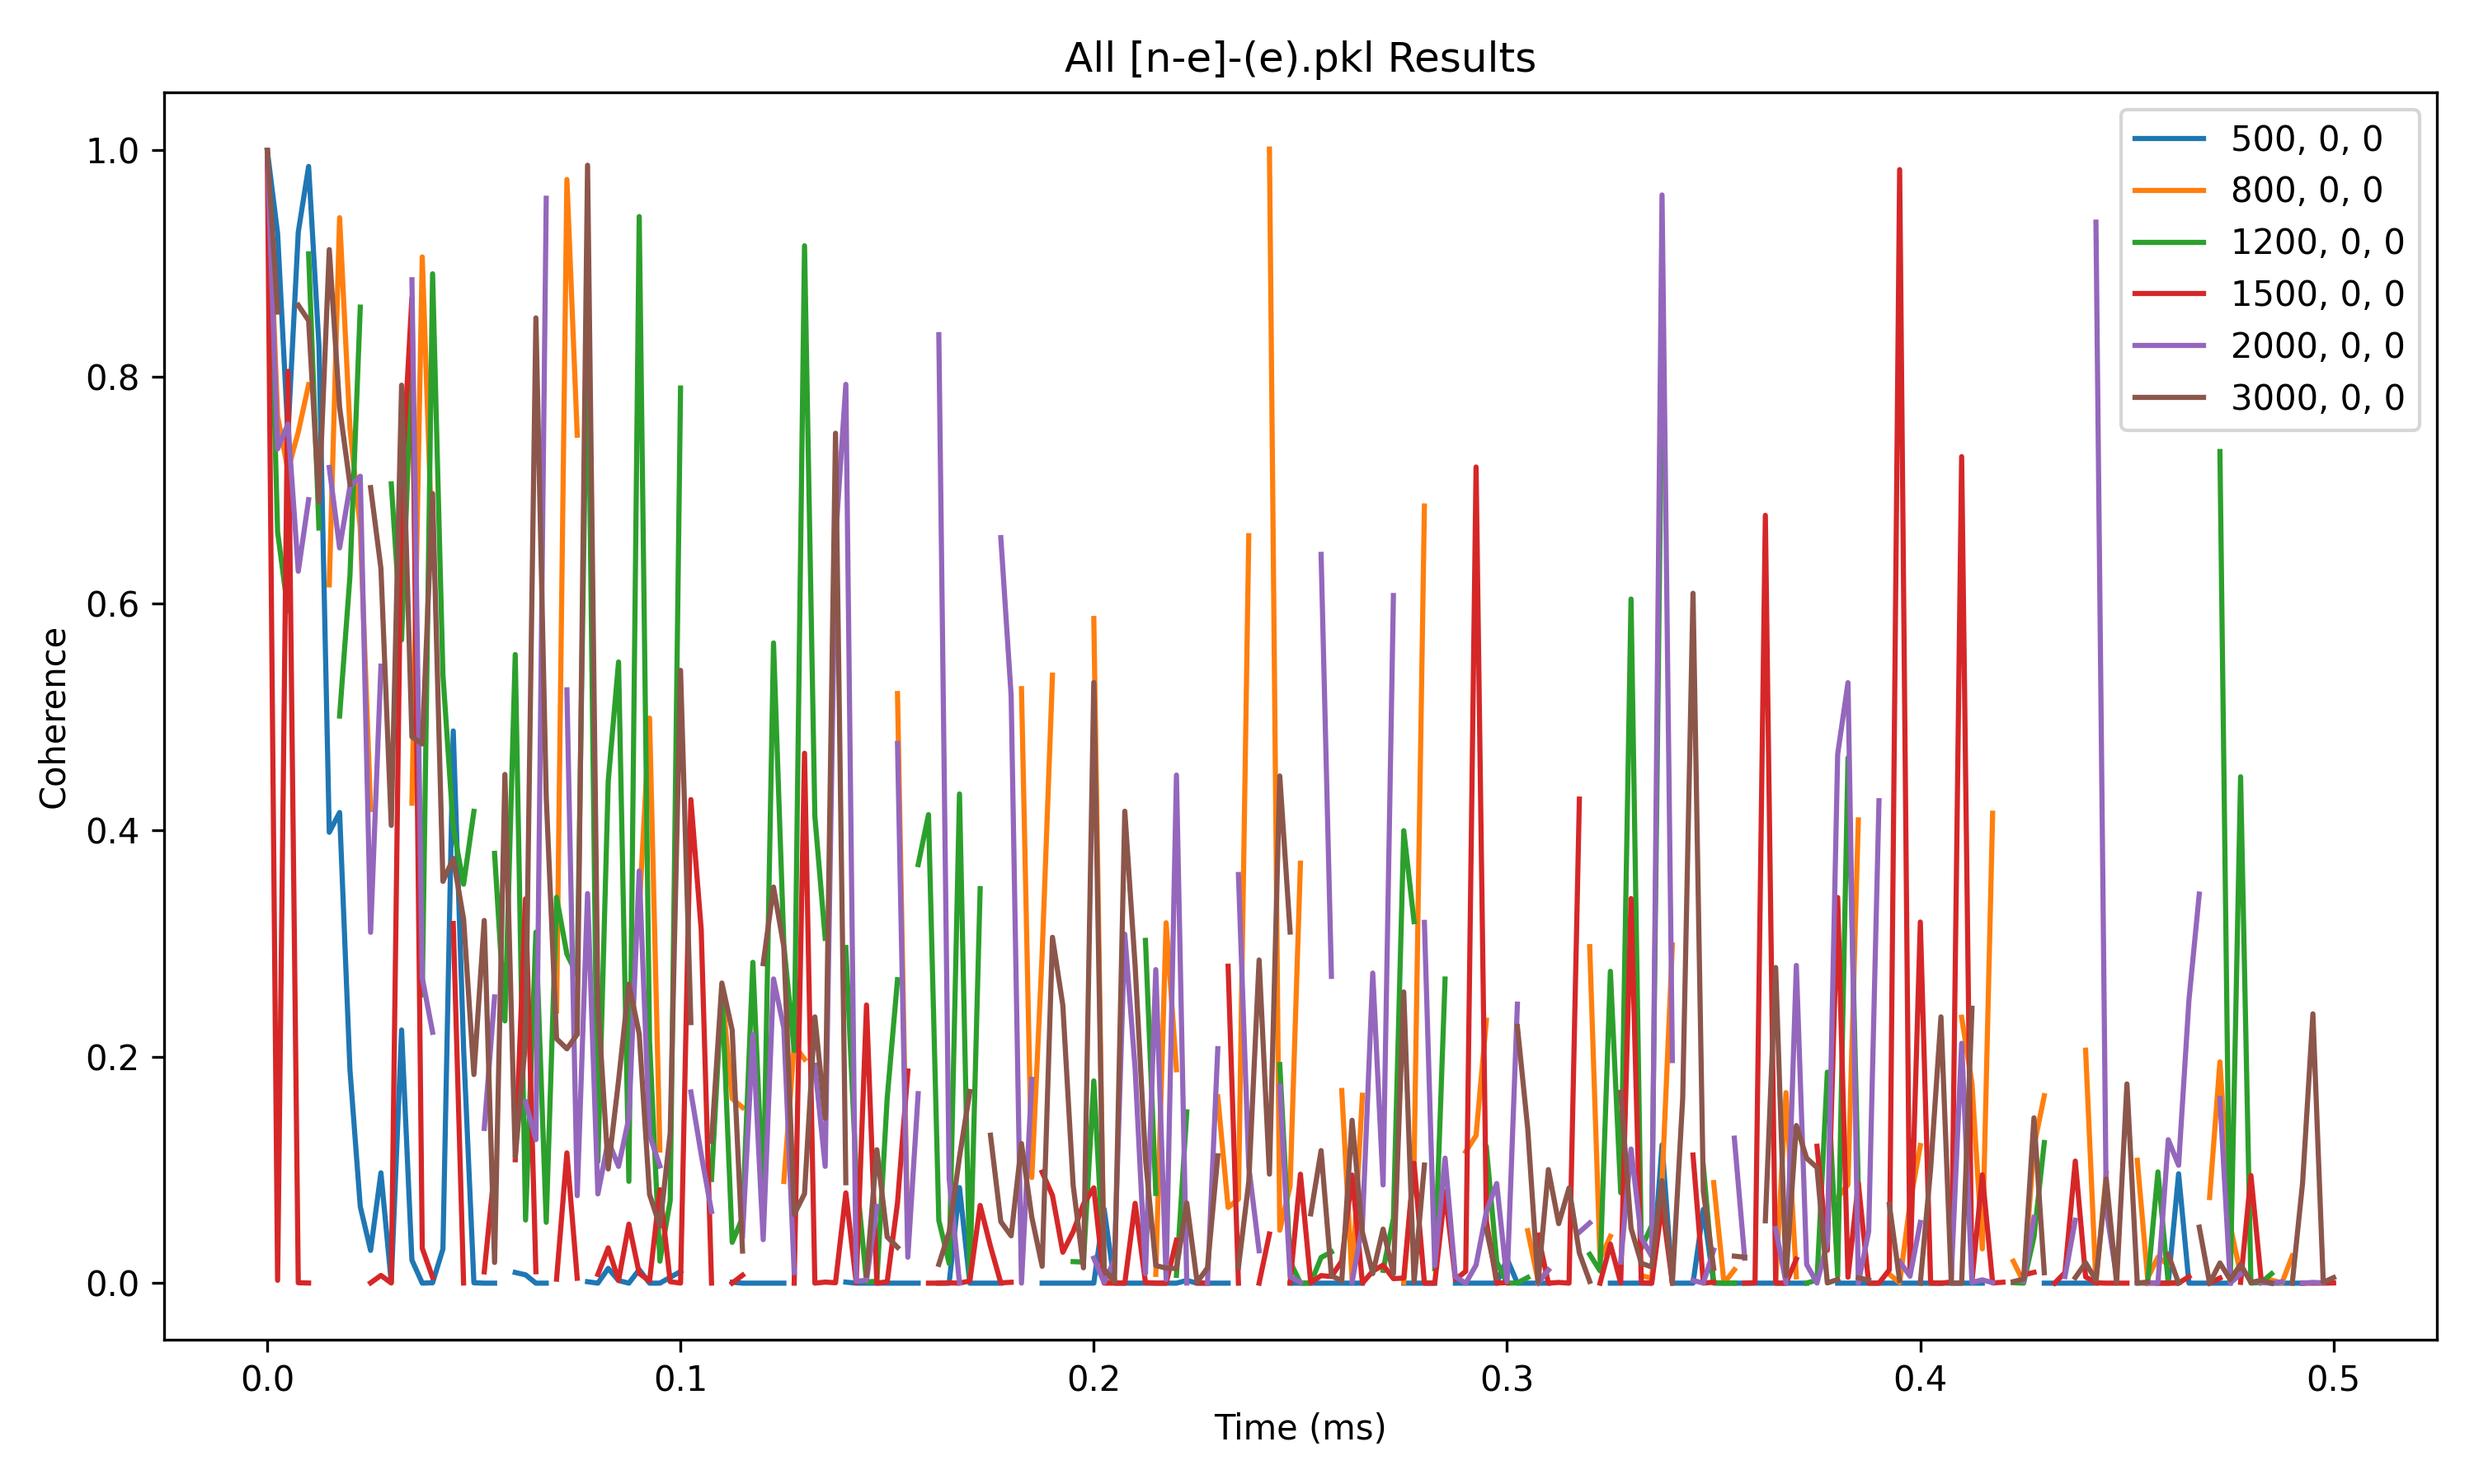
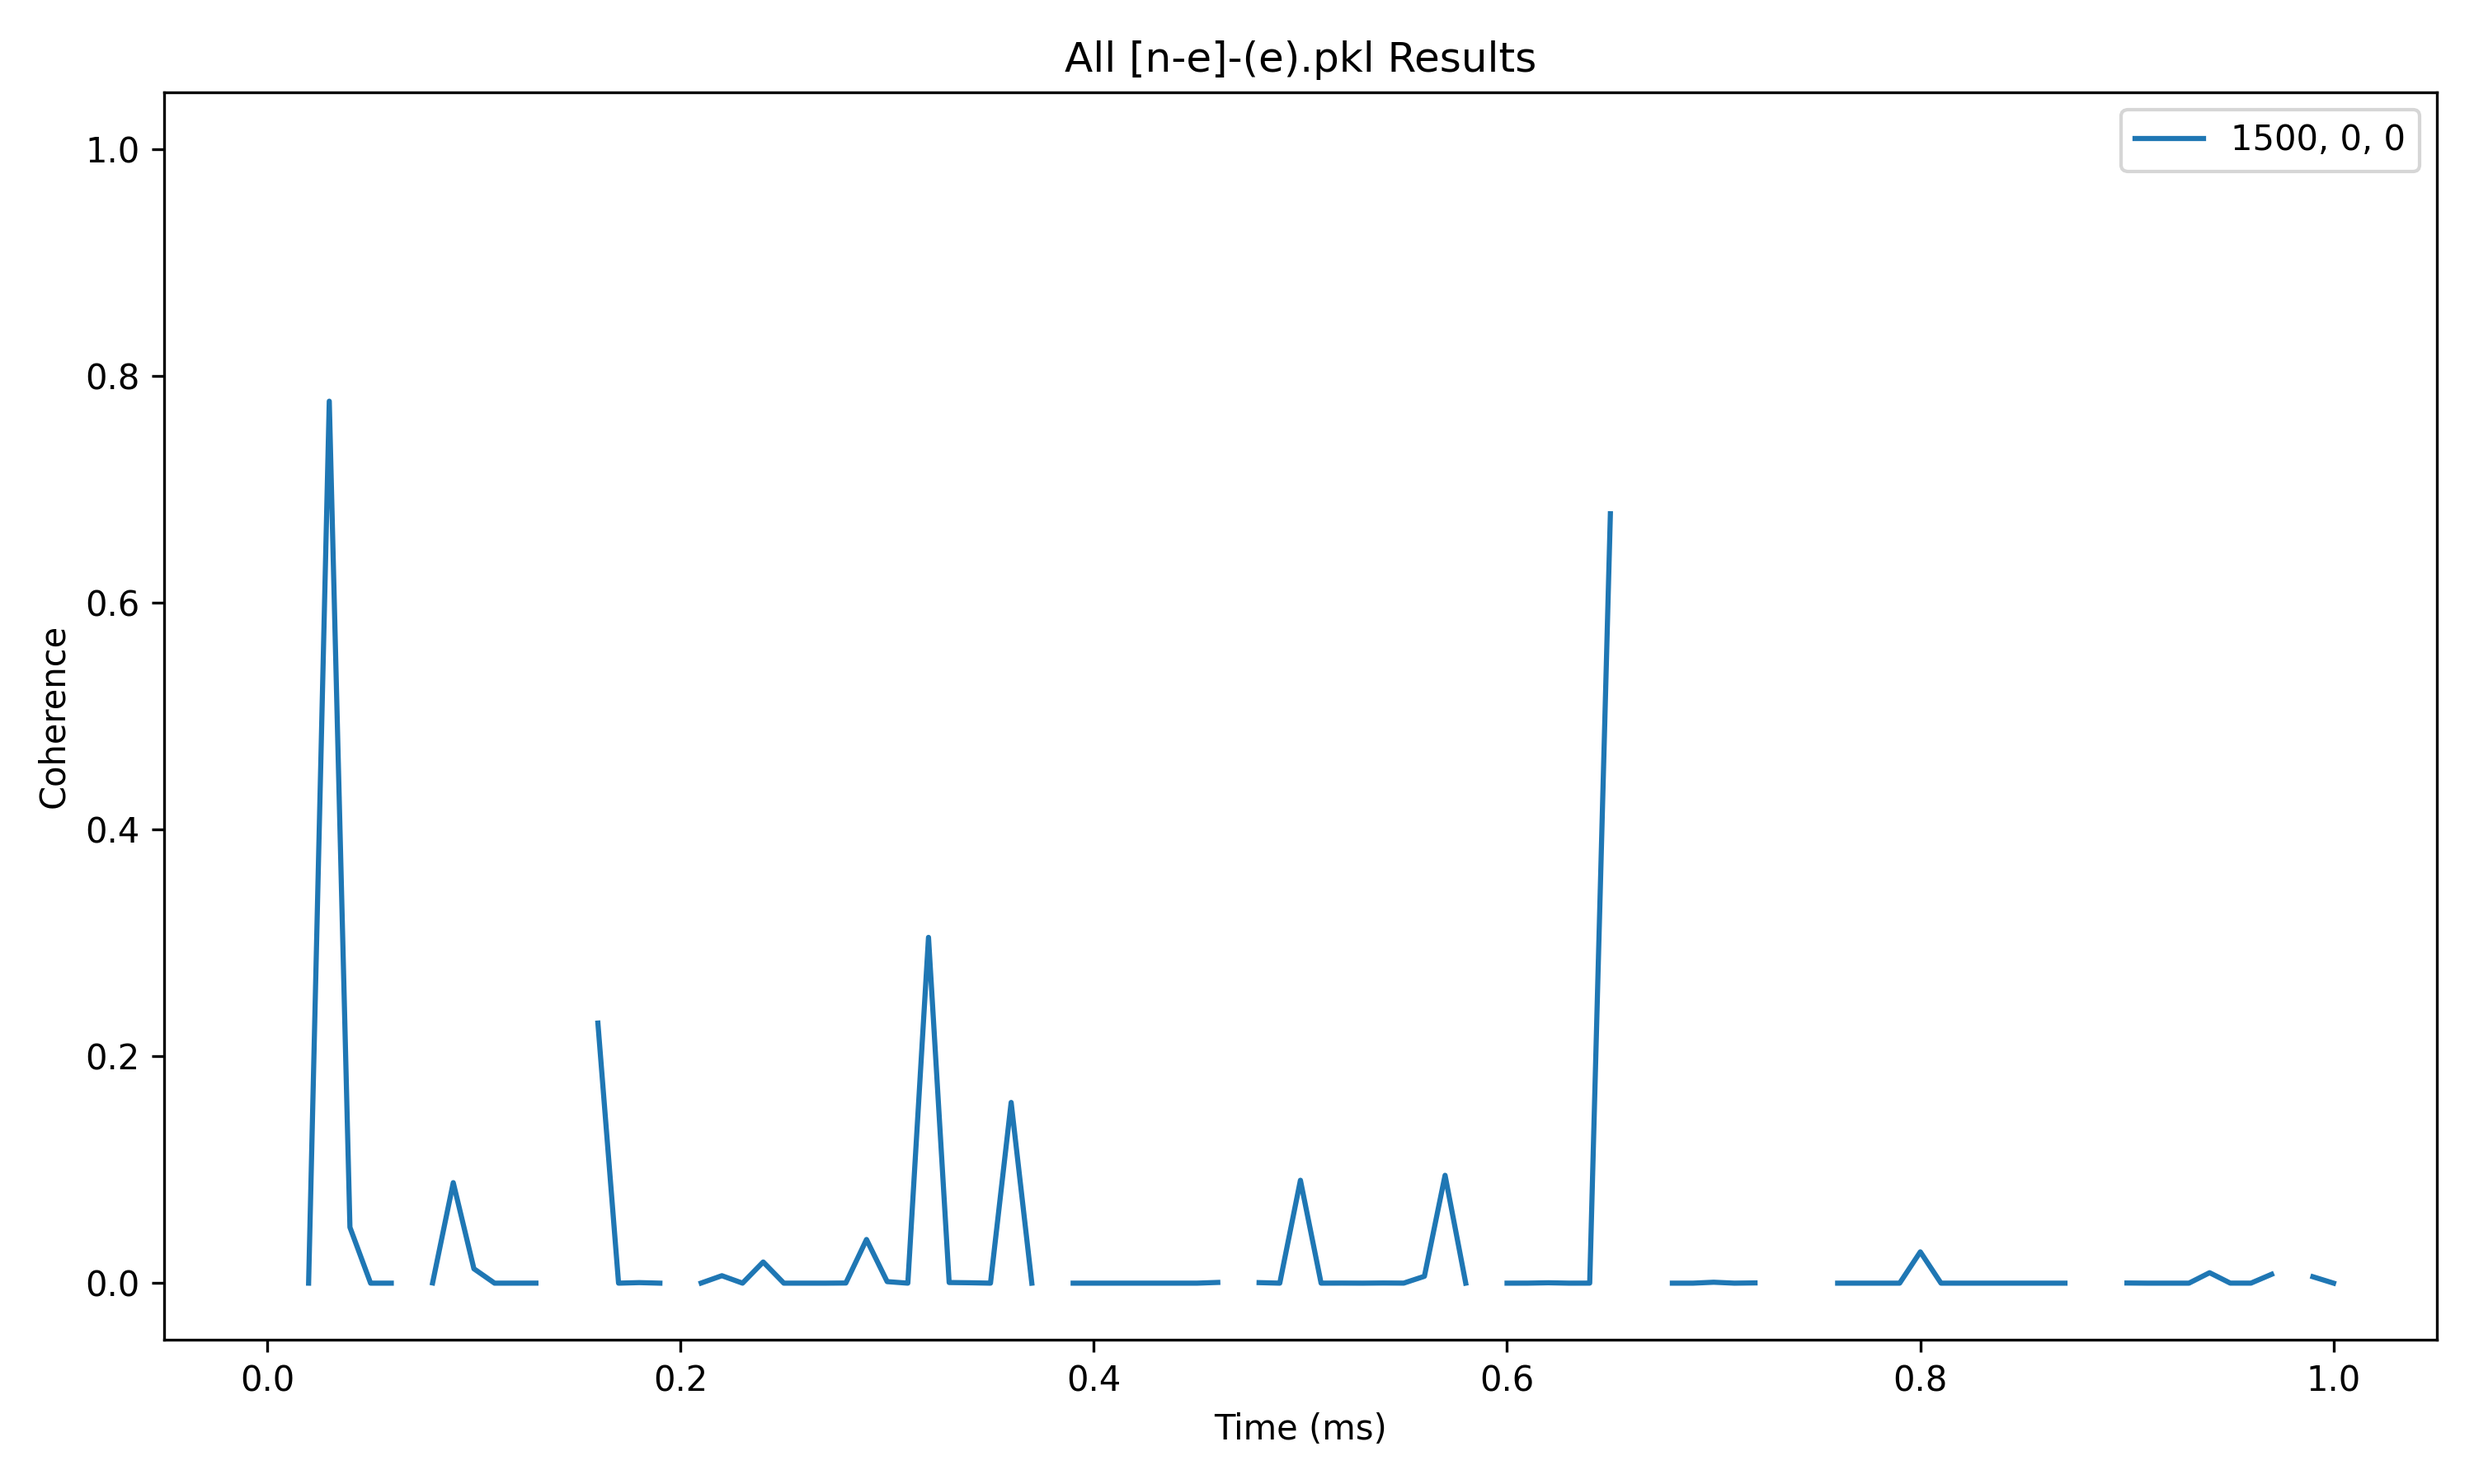
B=1500, order3, etc. T2=11us, expected value of 40us

Changed region(s): [[0.093, 0.1244, 0.961, 0.8711], [0.837, 0.0622, 0.992, 0.3111], [0.93, 0.9022, 0.961, 0.9333]]

diff --git a/VOTPP folder/VOTPP_[n-e]-(e).py b/VOTPP folder/VOTPP_[n-e]-(e).py
@@ -133,7 +133,7 @@ nbstates_list = [128,]
 # r_dipole_list = [8,]
 # cell_size_list = [60,]
 
-timespace_absolute = np.linspace(0, 0.5, 201)
+timespace_absolute = np.linspace(0, 1, 101)
 
 default_calc_parameters = {
     'timespace': timespace_absolute, # 7e-2
@@ -153,9 +153,9 @@ default_bath_parameters = {
 }
 
 default_simulator_parameters = { ########## These should be greater when simulating with HPC
-    'order': 2, #!
-    'r_bath': 100, #16,
-    'r_dipole': 100, #6,
+    'order': 3, #!
+    'r_bath': 75, #16,
+    'r_dipole': 60, #6,
     'magnetic_field': [3000, 0, 0], # Magnetic field in Gauss
 }
 
@@ -164,13 +164,13 @@ default_simulator_parameters = { ########## These should be greater when simulat
 # Set up runner and run the simulation
 #####################################################################
 
-magnetic_field_list = [[500,0,0], [800,0,0], [1200,0,0], [1500,0,0], [2000,0,0], [3000,0,0]]
+# magnetic_field_list = [[500,0,0], [800,0,0], [1200,0,0], [1500,0,0], [2000,0,0], [3000,0,0]]
 # magnetic_field_list = [[0,0,500], [0,0,800], [0,0,1200], [0,0,1500], [0,0,2000], [0,0,3000]]
 # timespace_list = [np.linspace(0, 5e-2, 201), np.linspace(0, 5e-2, 201), np.linspace(0, 5e-2, 201), np.linspace(0, 1e-1, 201), np.linspace(0, 1e-1, 201), np.linspace(0, 1e-1, 201), ]
 # timespace_list = [np.linspace(0, 5e-2, 201), np.linspace(0, 5e-2, 201), np.linspace(0, 5e-2, 201), np.linspace(0, 7e-2, 201), np.linspace(0, 7e-2, 201), np.linspace(0, 7e-2, 201), ]
 
 # magnetic_field_list = [[3000,0,0],[1500,0,0],[500,0,0]]
-
+magnetic_field_list = [[1500,0,0]]
 
 
 
